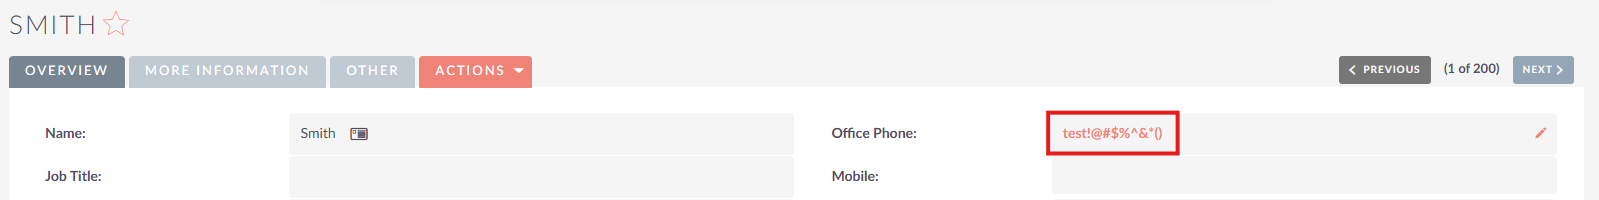
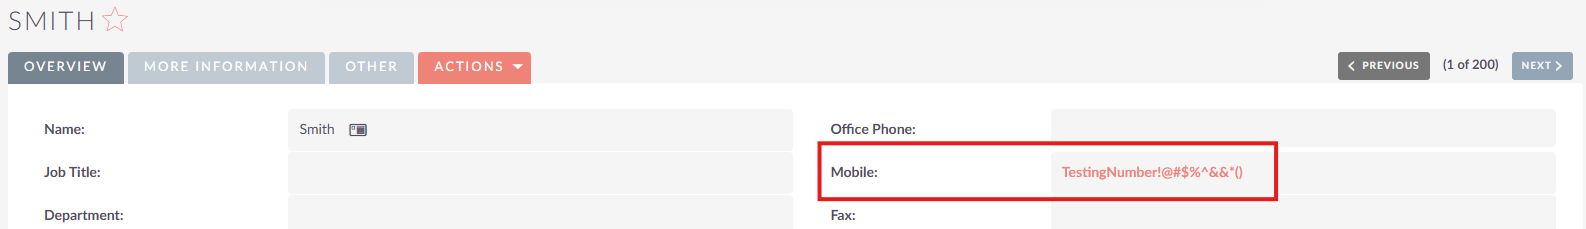
Updated Test Scenarios & bug report

diff --git a/02_Bug_Reports/Bug_001_Lead_Phone_Val.md b/02_Bug_Reports/Bug_001_Lead_Phone_Val.md
@@ -18,14 +18,14 @@ Allowing non-numeric data in phone fields may cause integration failures with VO
 1. Navigate to **Sales** -> **Leads**.
 2. Click **Create Lead**.
 3. Fill in mandatory fields (Last Name).
-4. In the **Office Phone** field, enter the string: `test!@#$%^&*()`.
+4. In the **Office Phone** field, enter the string: `TestingNumber!@#$%^&&*()`.
 5. Click **Save**.
 
 ### 📉 Expected Result
 The system should display a validation error: "Invalid phone number format" OR restrict input to numeric characters/standard phone symbols (+, -, space).
 
 ### 📈 Actual Result
-The system saves the Lead successfully. The "Office Phone" field displays `test!@#$%^&*()` on the detail view.
+The system saves the Lead successfully. The "Office Phone" field displays `TestingNumber!@#$%^&&*()` on the detail view.
 
 ### 📸 Evidence
 ![Screenshot of invalid phone data](./assets/Bug_001_Lead_Phone_Val.png)
